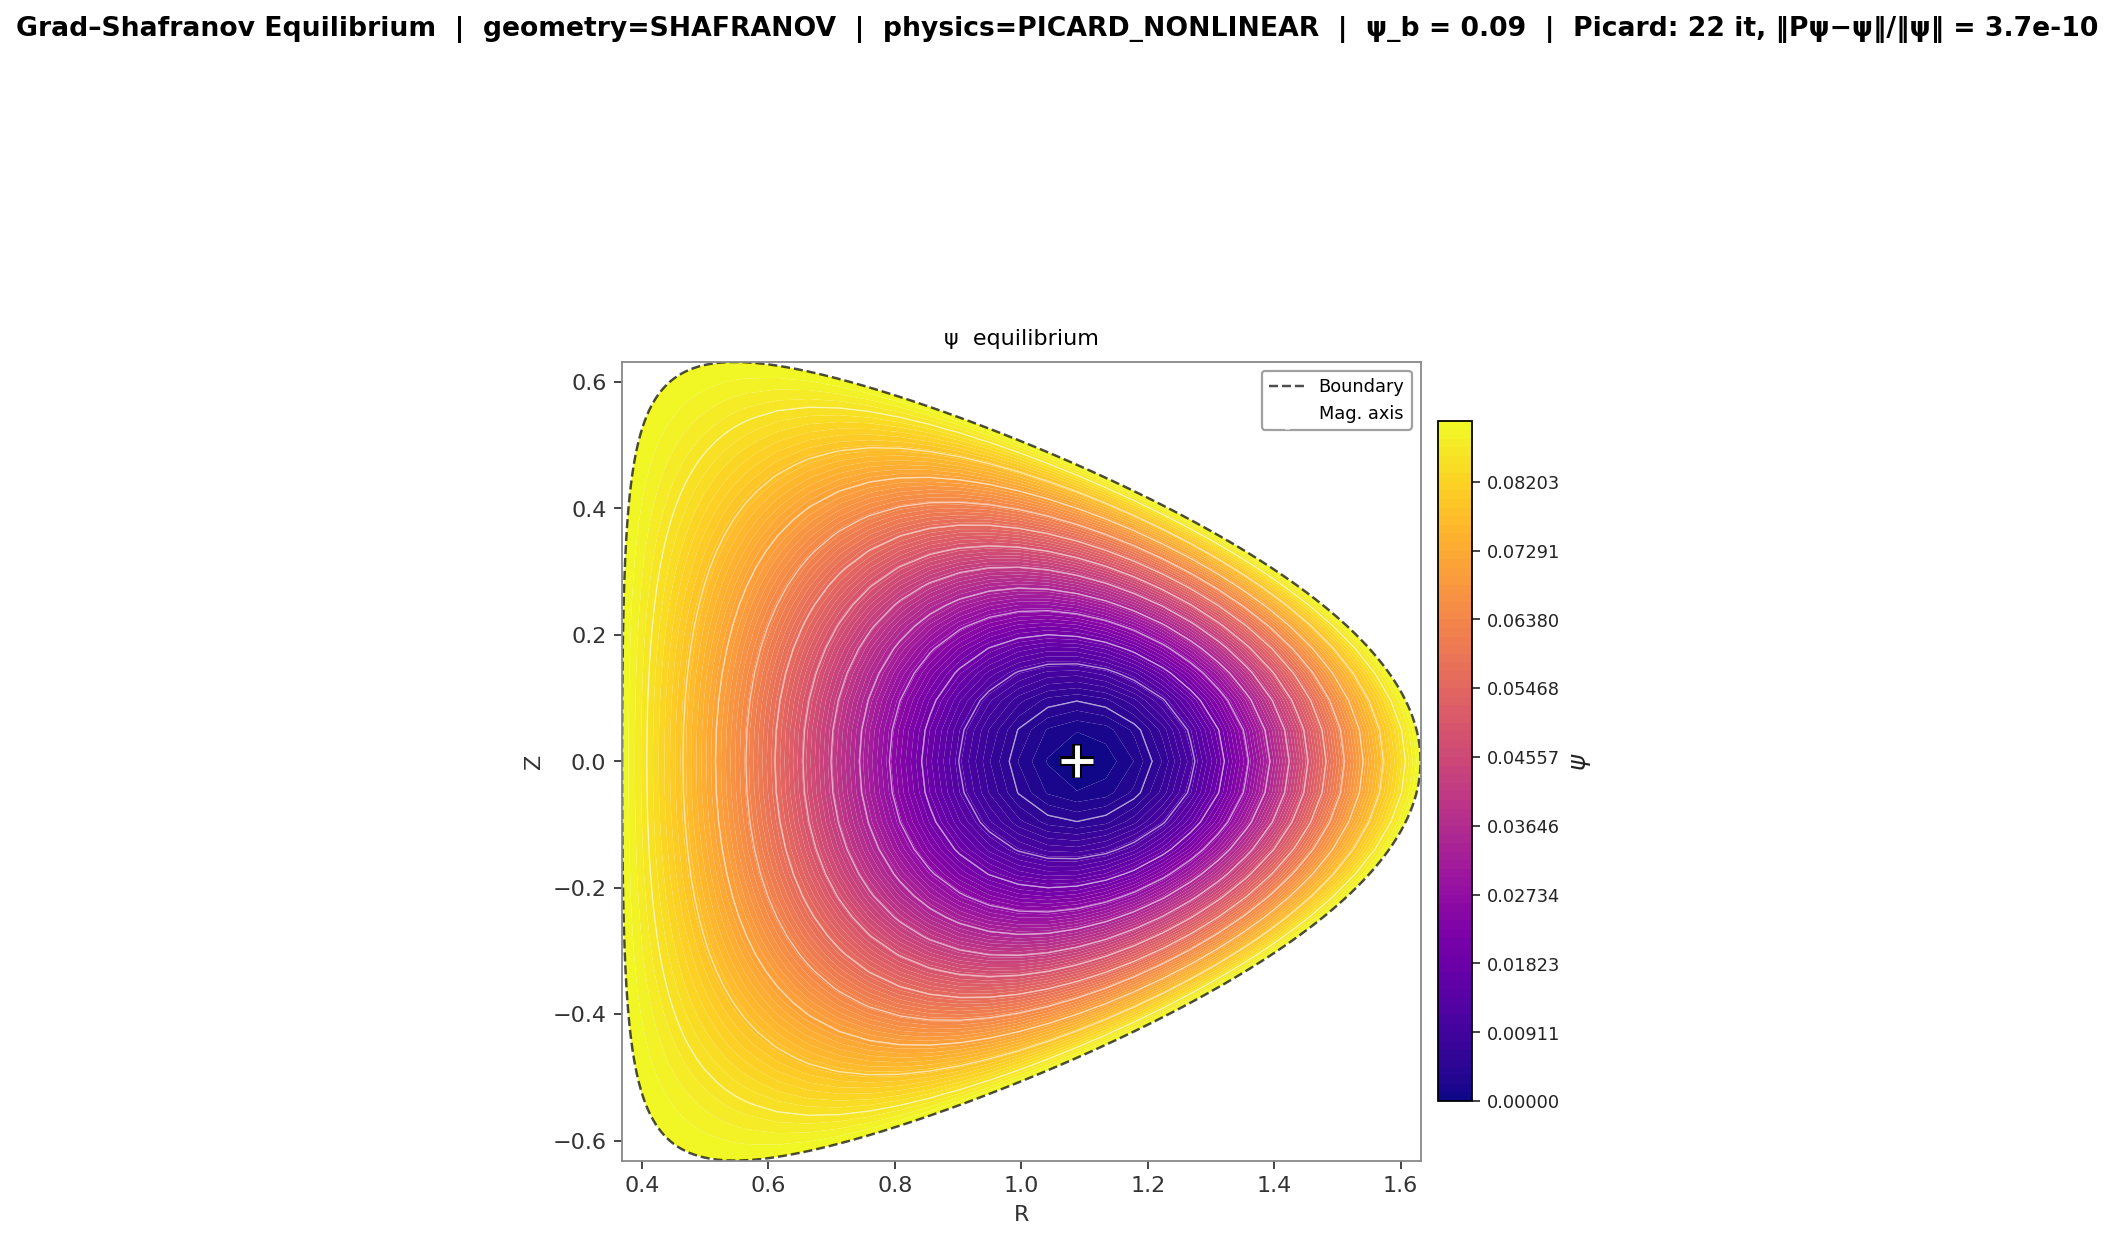
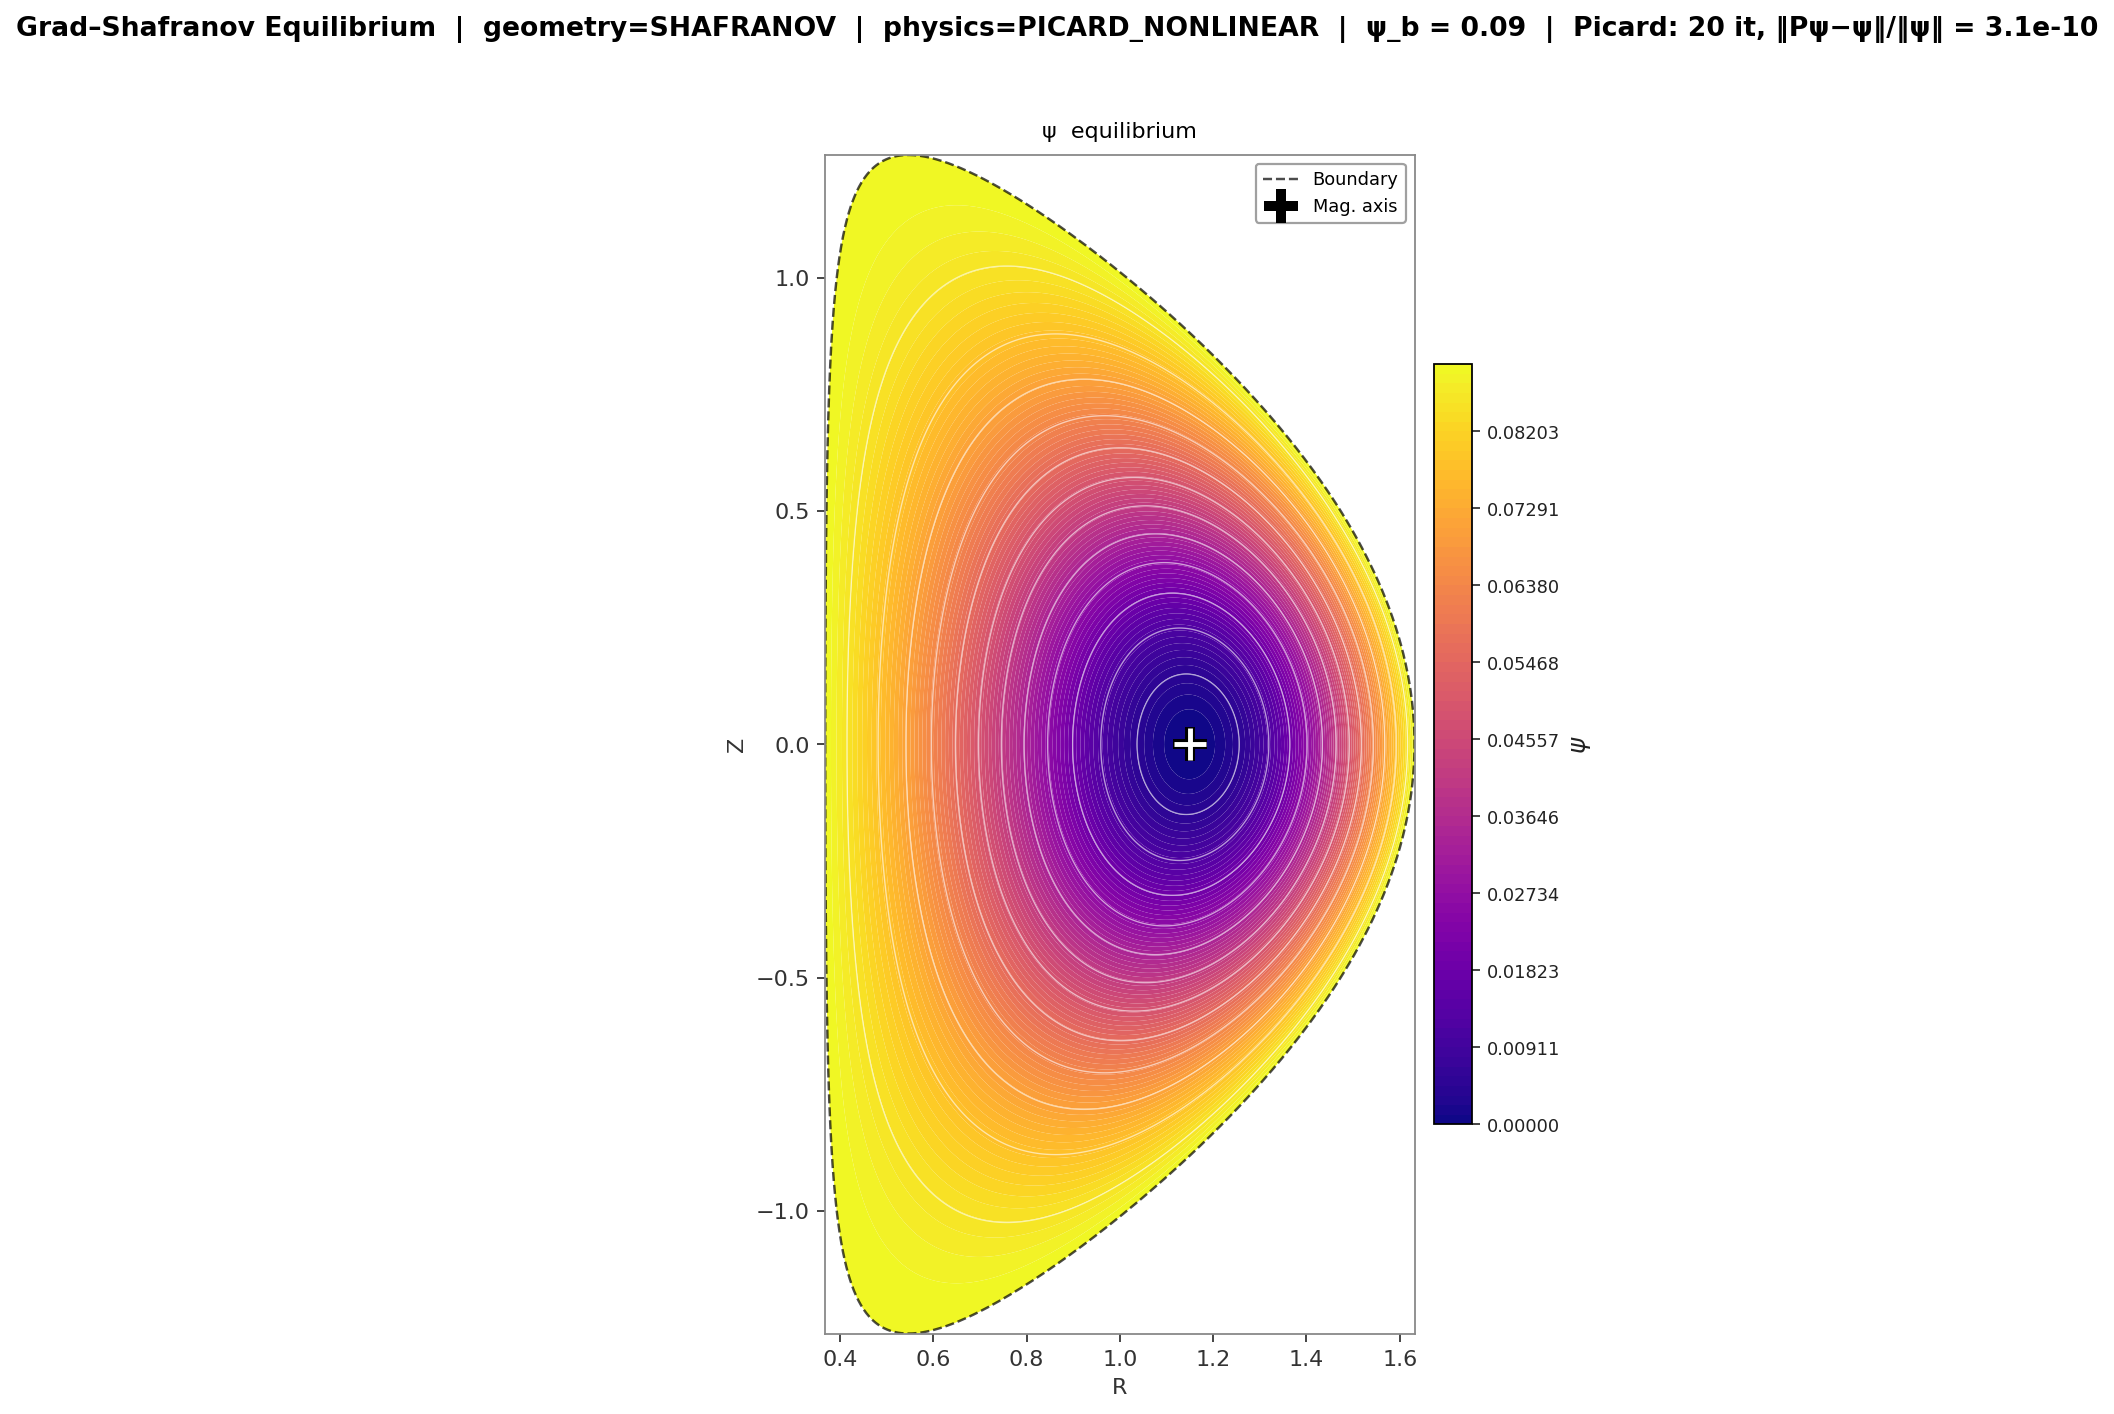
Added matrix conditioning to combat rounding error

diff --git a/src/gs_solver.py b/src/gs_solver.py
@@ -52,7 +52,7 @@ import time
 OUTPUT_DIR = 'figures'
 THEME = 'light'              # 'light' (white background, default) or 'dark'
 SHOW = True                # True for interactive windows (e.g. %matplotlib qt)
-SPECTRAL_ANALYSIS = False   # Arnoldi study of the Picard Jacobian (slow on fine grids)
+SPECTRAL_ANALYSIS = True   # Arnoldi study of the Picard Jacobian (slow on fine grids)
 
 # ══════════════════════════════════════════════════════════════════════════════
 # SECTION I-A  ·  GEOMETRY SELECTION
@@ -66,8 +66,8 @@ SPECTRAL_ANALYSIS = False   # Arnoldi study of the Picard Jacobian (slow on fine
 #                            Z(R) = ±√(a − b(R²−R0²)²) / R
 #                            (closed D-shape; requires R0, k0, q0 — see I-C)
 #
-GEOMETRY = 'SOLOVIEV'           # <── change here
-#GEOMETRY = 'SHAFRANOV'
+#GEOMETRY = 'SOLOVIEV'           # <── change here
+GEOMETRY = 'SHAFRANOV'
 
 # ══════════════════════════════════════════════════════════════════════════════
 # SECTION I-B  ·  PHYSICS MODE SELECTION
@@ -81,8 +81,8 @@ GEOMETRY = 'SOLOVIEV'           # <── change here
 #
 #  PHYSICS = 'CUSTOM'            — you supply source_custom(r, psi_n) directly
 #
-PHYSICS = 'SOLOVIEV_LINEAR'     # <── change here
-#PHYSICS = 'PICARD_NONLINEAR'
+#PHYSICS = 'SOLOVIEV_LINEAR'     # <── change here
+PHYSICS = 'PICARD_NONLINEAR'
 #PHYSICS = 'CUSTOM'
 
 # ══════════════════════════════════════════════════════════════════════════════
@@ -91,12 +91,12 @@ PHYSICS = 'SOLOVIEV_LINEAR'     # <── change here
 
 # ── Shared ────────────────────────────────────────────────────────────────────
 R0  = 0.95     # major radius (normalised units; set to 1 for true normalisation)
-ds  = 1.2e-2    # arc-length step along boundary (smaller = finer grid, slower)
+ds  = 6e-3    # arc-length step along boundary (smaller = finer grid, slower)
 
 # ── SHAFRANOV shape parameters (ignored when GEOMETRY = 'SOLOVIEV') ──────────
 a_sha     = 0.6   # minor radius  (normalised to R0 if R0=1, else metres)
 delta_sha = 0.8   # triangularity
-kappa_sha = 1   # elongation
+kappa_sha = 2   # elongation
 
 # ── SOLOVIEV shape parameters (ignored when GEOMETRY = 'SHAFRANOV') ──────────
 #    These also fix the Soloviev source when PHYSICS = 'SOLOVIEV_LINEAR'.
@@ -122,9 +122,9 @@ psi_b = 0.09   # Dirichlet boundary value of ψ
 #
 #    NOTE: only the ratio p0/alpha matters for the normalised Picard map (the overall amplitude is removed
 #    by the ψ_n renormalisation).
-sp1 = 2
-sp2 = 2
-sf1 = 2
+sp1 = 1
+sp2 = 1
+sf1 = 1
 sf2 = 1
 
 # ── Picard amplitude parameters ───────────────────────────────────────────────
@@ -133,7 +133,7 @@ alpha = 1   # FF' amplitude                  (scales the constant term of S)
 
 # ── Picard iteration controls ────────────────────────────────────────────────
 #  Plain Picard  ψ ← P(ψ).  Stopping test: fixed-point residual ‖P(ψ) − ψ‖/‖ψ‖ < PICARD_EPS.
-MAX_ITER      = 300
+MAX_ITER      = 100
 PICARD_EPS    = 1e-9
 LAST_DIAG     = {}      # filled by solve_picard: iterations, res_P, res_P2
 
@@ -575,8 +575,10 @@ def solve_linear(A_csc, bnd, rmesh, coords):
     print(f"  ψ ∈ [{psi.min():.6f}, {psi.max():.6f}]")
     return psi*psi_b
 
-def _picard_step(psi, A_csc_lu, rmesh, coords, bnd):
-    """One Picard step: evaluate source at current ψ, solve, re-normalise."""
+def _picard_step(psi, lu_dinv, rmesh, coords, bnd):
+    """One Picard step: evaluate source at current ψ, solve, re-normalise. lu_dinv is a tuple 
+    (lu, dinv) where lu = splu(A_csc scaled by dinv) and dinv = 1.0 / A_csc.diagonal()"""
+    lu, dinv = lu_dinv
     source_fn = get_source_fn()
     N = len(coords)
     b_vec = np.zeros(N)
@@ -594,17 +596,22 @@ def _picard_step(psi, A_csc_lu, rmesh, coords, bnd):
             pn       = np.clip((psi[k] - psi_min) / denom, 0.0, 1.0)
             b_vec[k] = source_fn(rmesh[ir], pn)
 
-    psi_new = A_csc_lu.solve(b_vec)
+    psi_new = lu.solve(b_vec*dinv)
     return _normalise_psi(psi_new, bnd)
 
 def solve_picard(A_csc, bnd, rmesh, zmesh, coords):
     """
     Plain Picard iteration  ψ ← P(ψ)  for the nonlinear GS problem.
     The stopping test and the reported diagnostics use the true fixed-point residual ‖P(ψ) − ψ‖/‖ψ‖.
+    We divide each row of the equation by the diagonal element of A to better condition the problem, 
+    which decreases rounding error.
     """
     N = len(coords)
+    dinv = 1.0 / A_csc.diagonal()
+    A_csc.data *= dinv[A_csc.indices]   # divide row i by A[i, i], stays CSC 
     A_csc_lu = splu(A_csc)
-    P = lambda x: _picard_step(x, A_csc_lu, rmesh, coords, bnd)
+    lu_dinv = (A_csc_lu, dinv)
+    P = lambda x: _picard_step(x, lu_dinv, rmesh, coords, bnd)
     rel = lambda a, b: np.linalg.norm(a - b) / (np.linalg.norm(b) + 1e-15)
     psi = np.zeros(N)
     for k in bnd:
@@ -622,13 +629,11 @@ def solve_picard(A_csc, bnd, rmesh, zmesh, coords):
     n_it = it + 1
 
     res_P  = rel(P(psi), psi)
-    res_P2 = rel(P(P(psi)), psi)
-    LAST_DIAG.clear(); LAST_DIAG.update(iterations=n_it, res_P=res_P, res_P2=res_P2)
-    print(f"  {n_it} iterations   residual ‖Pψ−ψ‖/‖ψ‖ = {res_P:.2e}   ‖P²ψ−ψ‖/‖ψ‖ = {res_P2:.2e}")
+    #res_P2 = rel(P(P(psi)), psi)
+    LAST_DIAG.clear(); LAST_DIAG.update(iterations=n_it, res_P=res_P)
+    print(f"  {n_it} iterations   residual ‖Pψ−ψ‖/‖ψ‖ = {res_P:.2e}")
     if res_P > 1e3 * PICARD_EPS:
         print("  ⚠ WARNING: not converged — ψ is NOT a fixed point of the Picard map.")
-        if res_P2 < 1e-3 * res_P:
-            print("    ‖P²ψ−ψ‖ is tiny: the iteration is oscillating on a period-2 cycle (see docs/gs_solver.pdf, Sec. 2.5).")
 
     print(f"  ψ ∈ [{psi.min():.6f}, {psi.max():.6f}]")
 
@@ -640,7 +645,7 @@ def solve_picard(A_csc, bnd, rmesh, zmesh, coords):
     nrm = np.linalg.norm(psi)
     def Lv(v):
         eps = 1e-6 * nrm / np.linalg.norm(v)
-        return (_picard_step(psi + eps * v, A_csc_lu, rmesh, coords, bnd) - _picard_step(psi - eps * v, A_csc_lu, rmesh, coords, bnd)) / (2 * eps)
+        return (_picard_step(psi + eps * v, lu_dinv, rmesh, coords, bnd) - _picard_step(psi - eps * v, lu_dinv, rmesh, coords, bnd)) / (2 * eps)
 
     N = psi.size
     L_op = LinearOperator((N, N), matvec=Lv, dtype=float)
